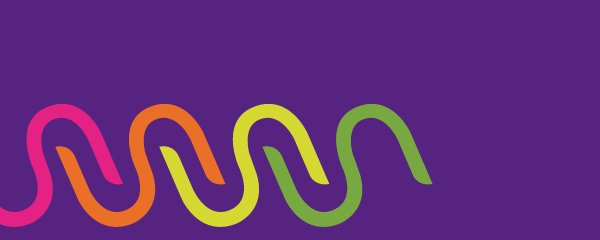
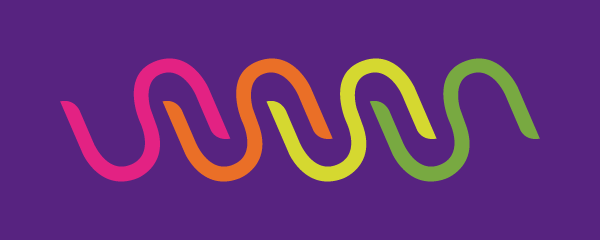
recette 01/10

Changed region(s): [[0.0, 0.2333, 0.9, 0.9625]]

diff --git a/src/Carpools/Home/Home.view.vue b/src/Carpools/Home/Home.view.vue
@@ -108,6 +108,8 @@ LICENSE
   background-image: url("/assets/banner.png");
   background-repeat: no-repeat;
   background-size: 100%;
+  // background-size: cover;
+  // background-position: center;
 }
 
 .partner-img {
